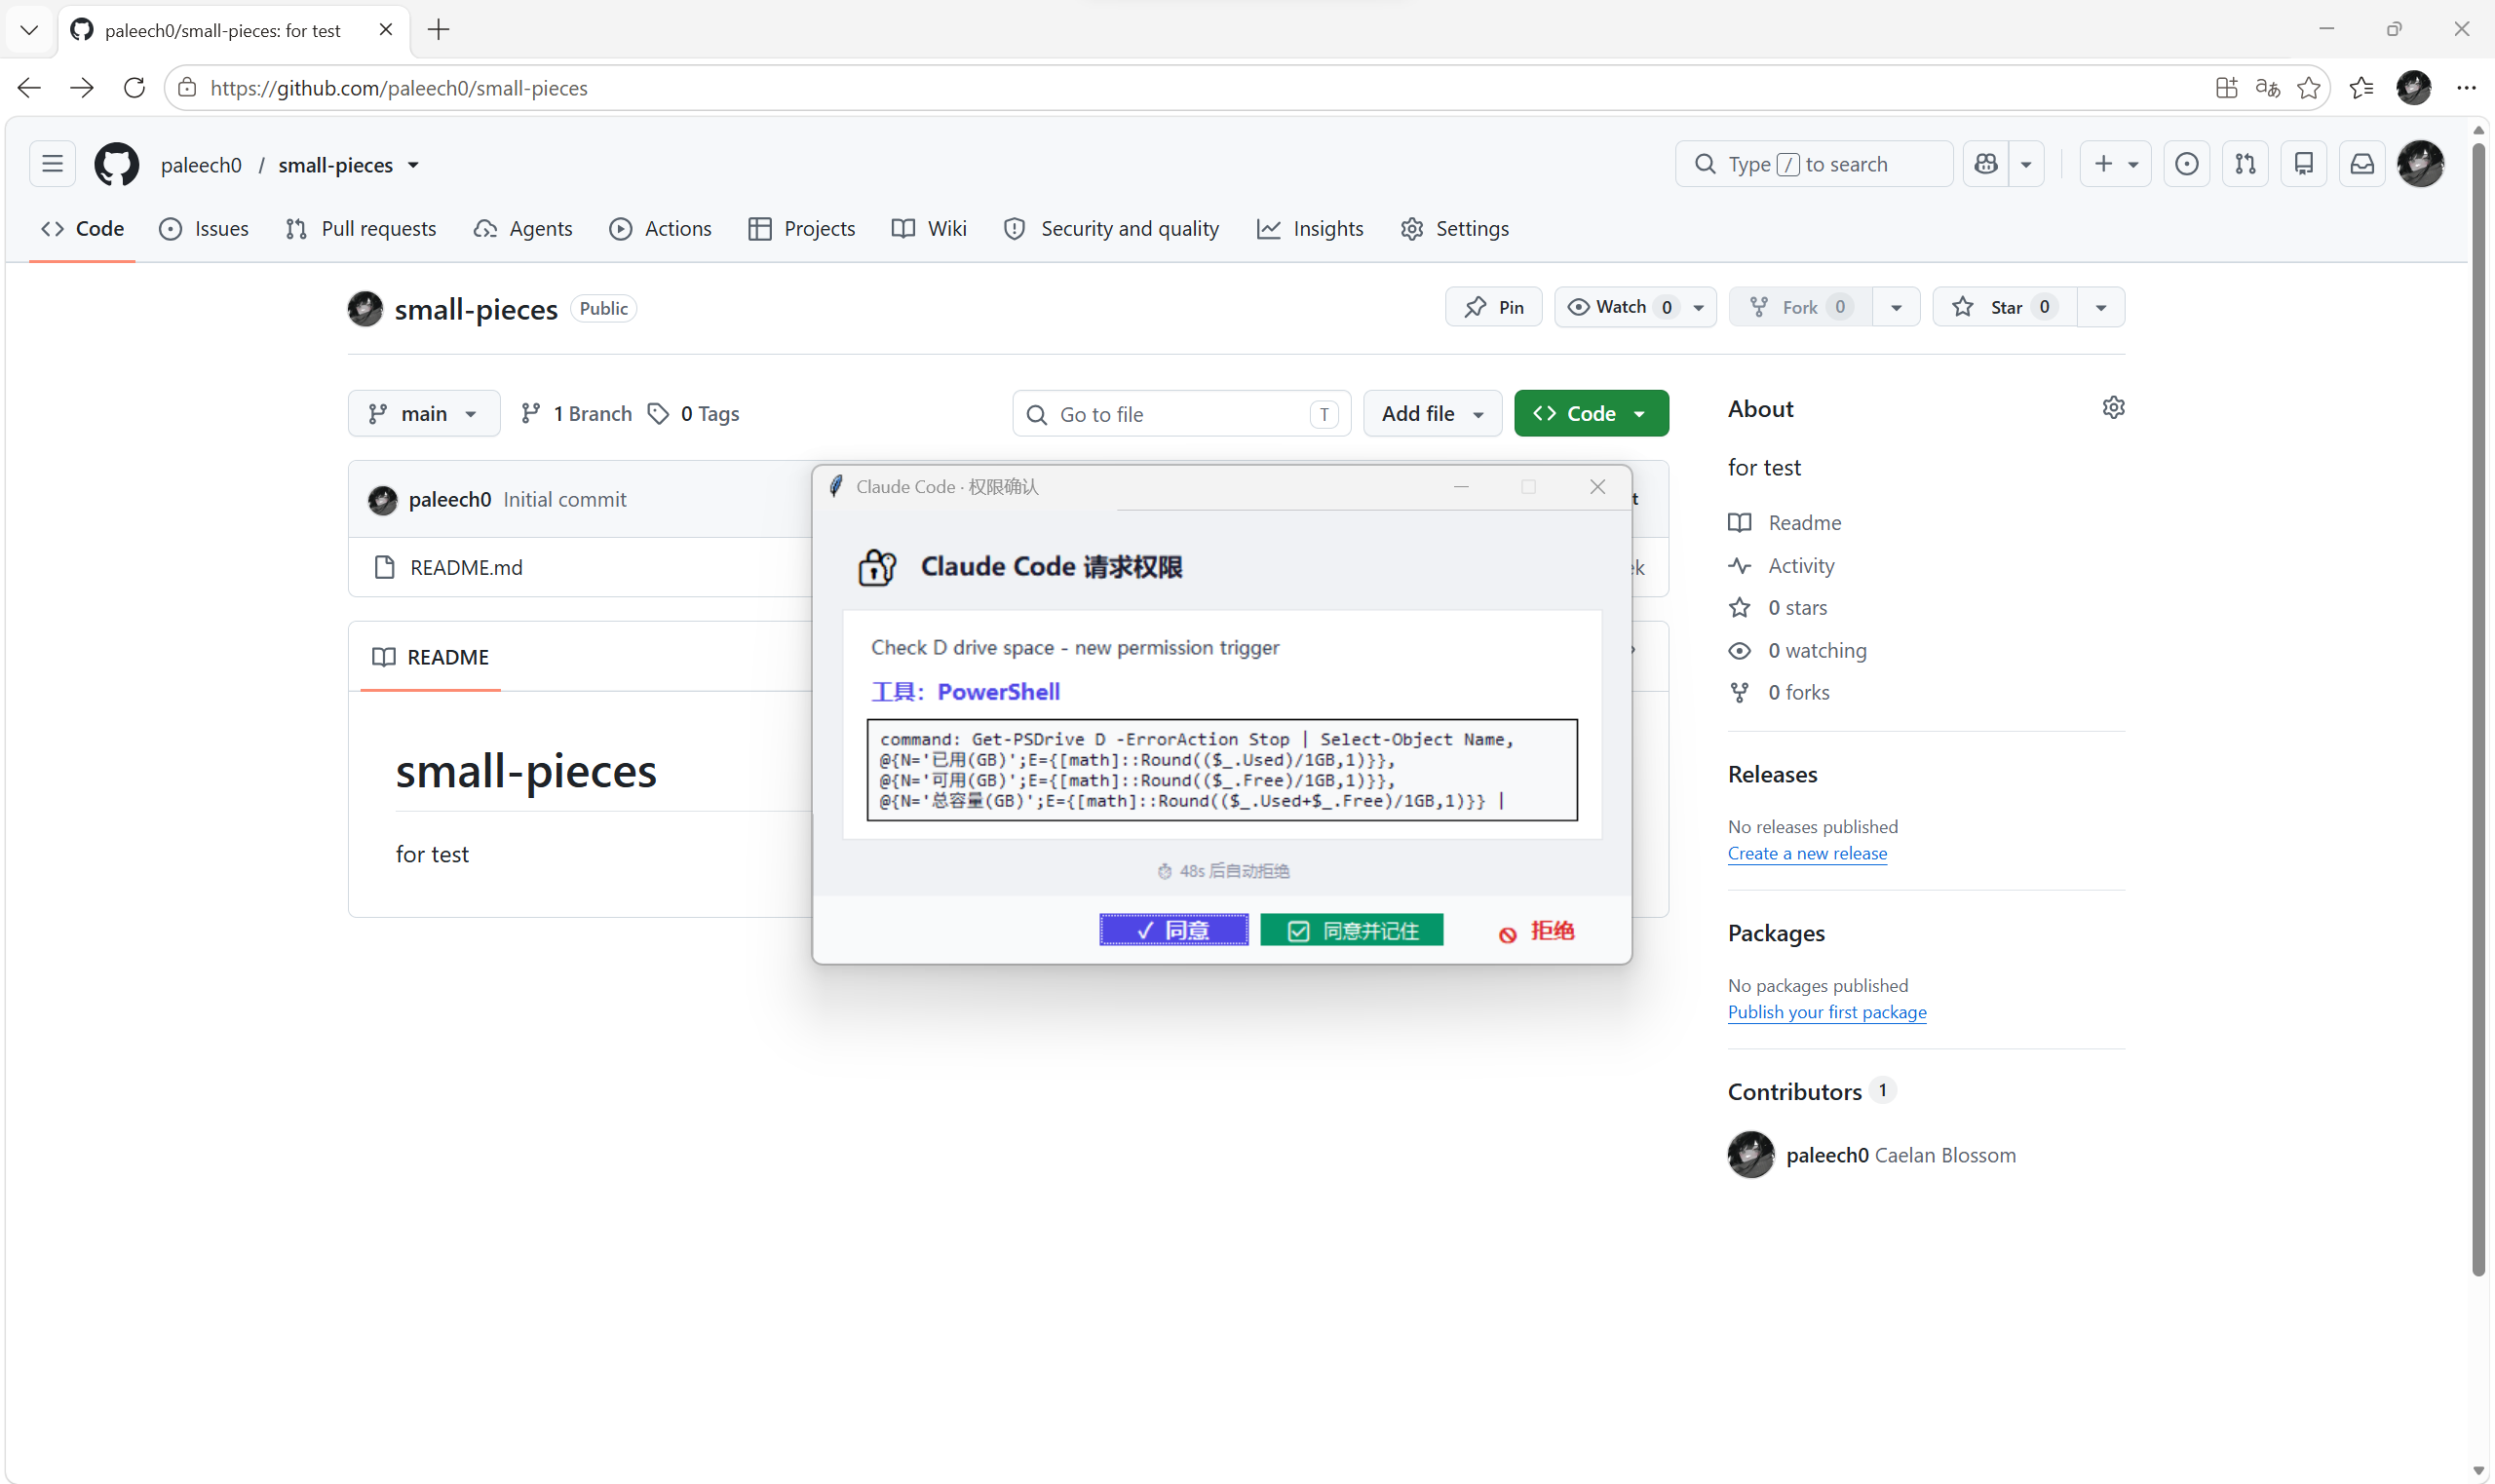
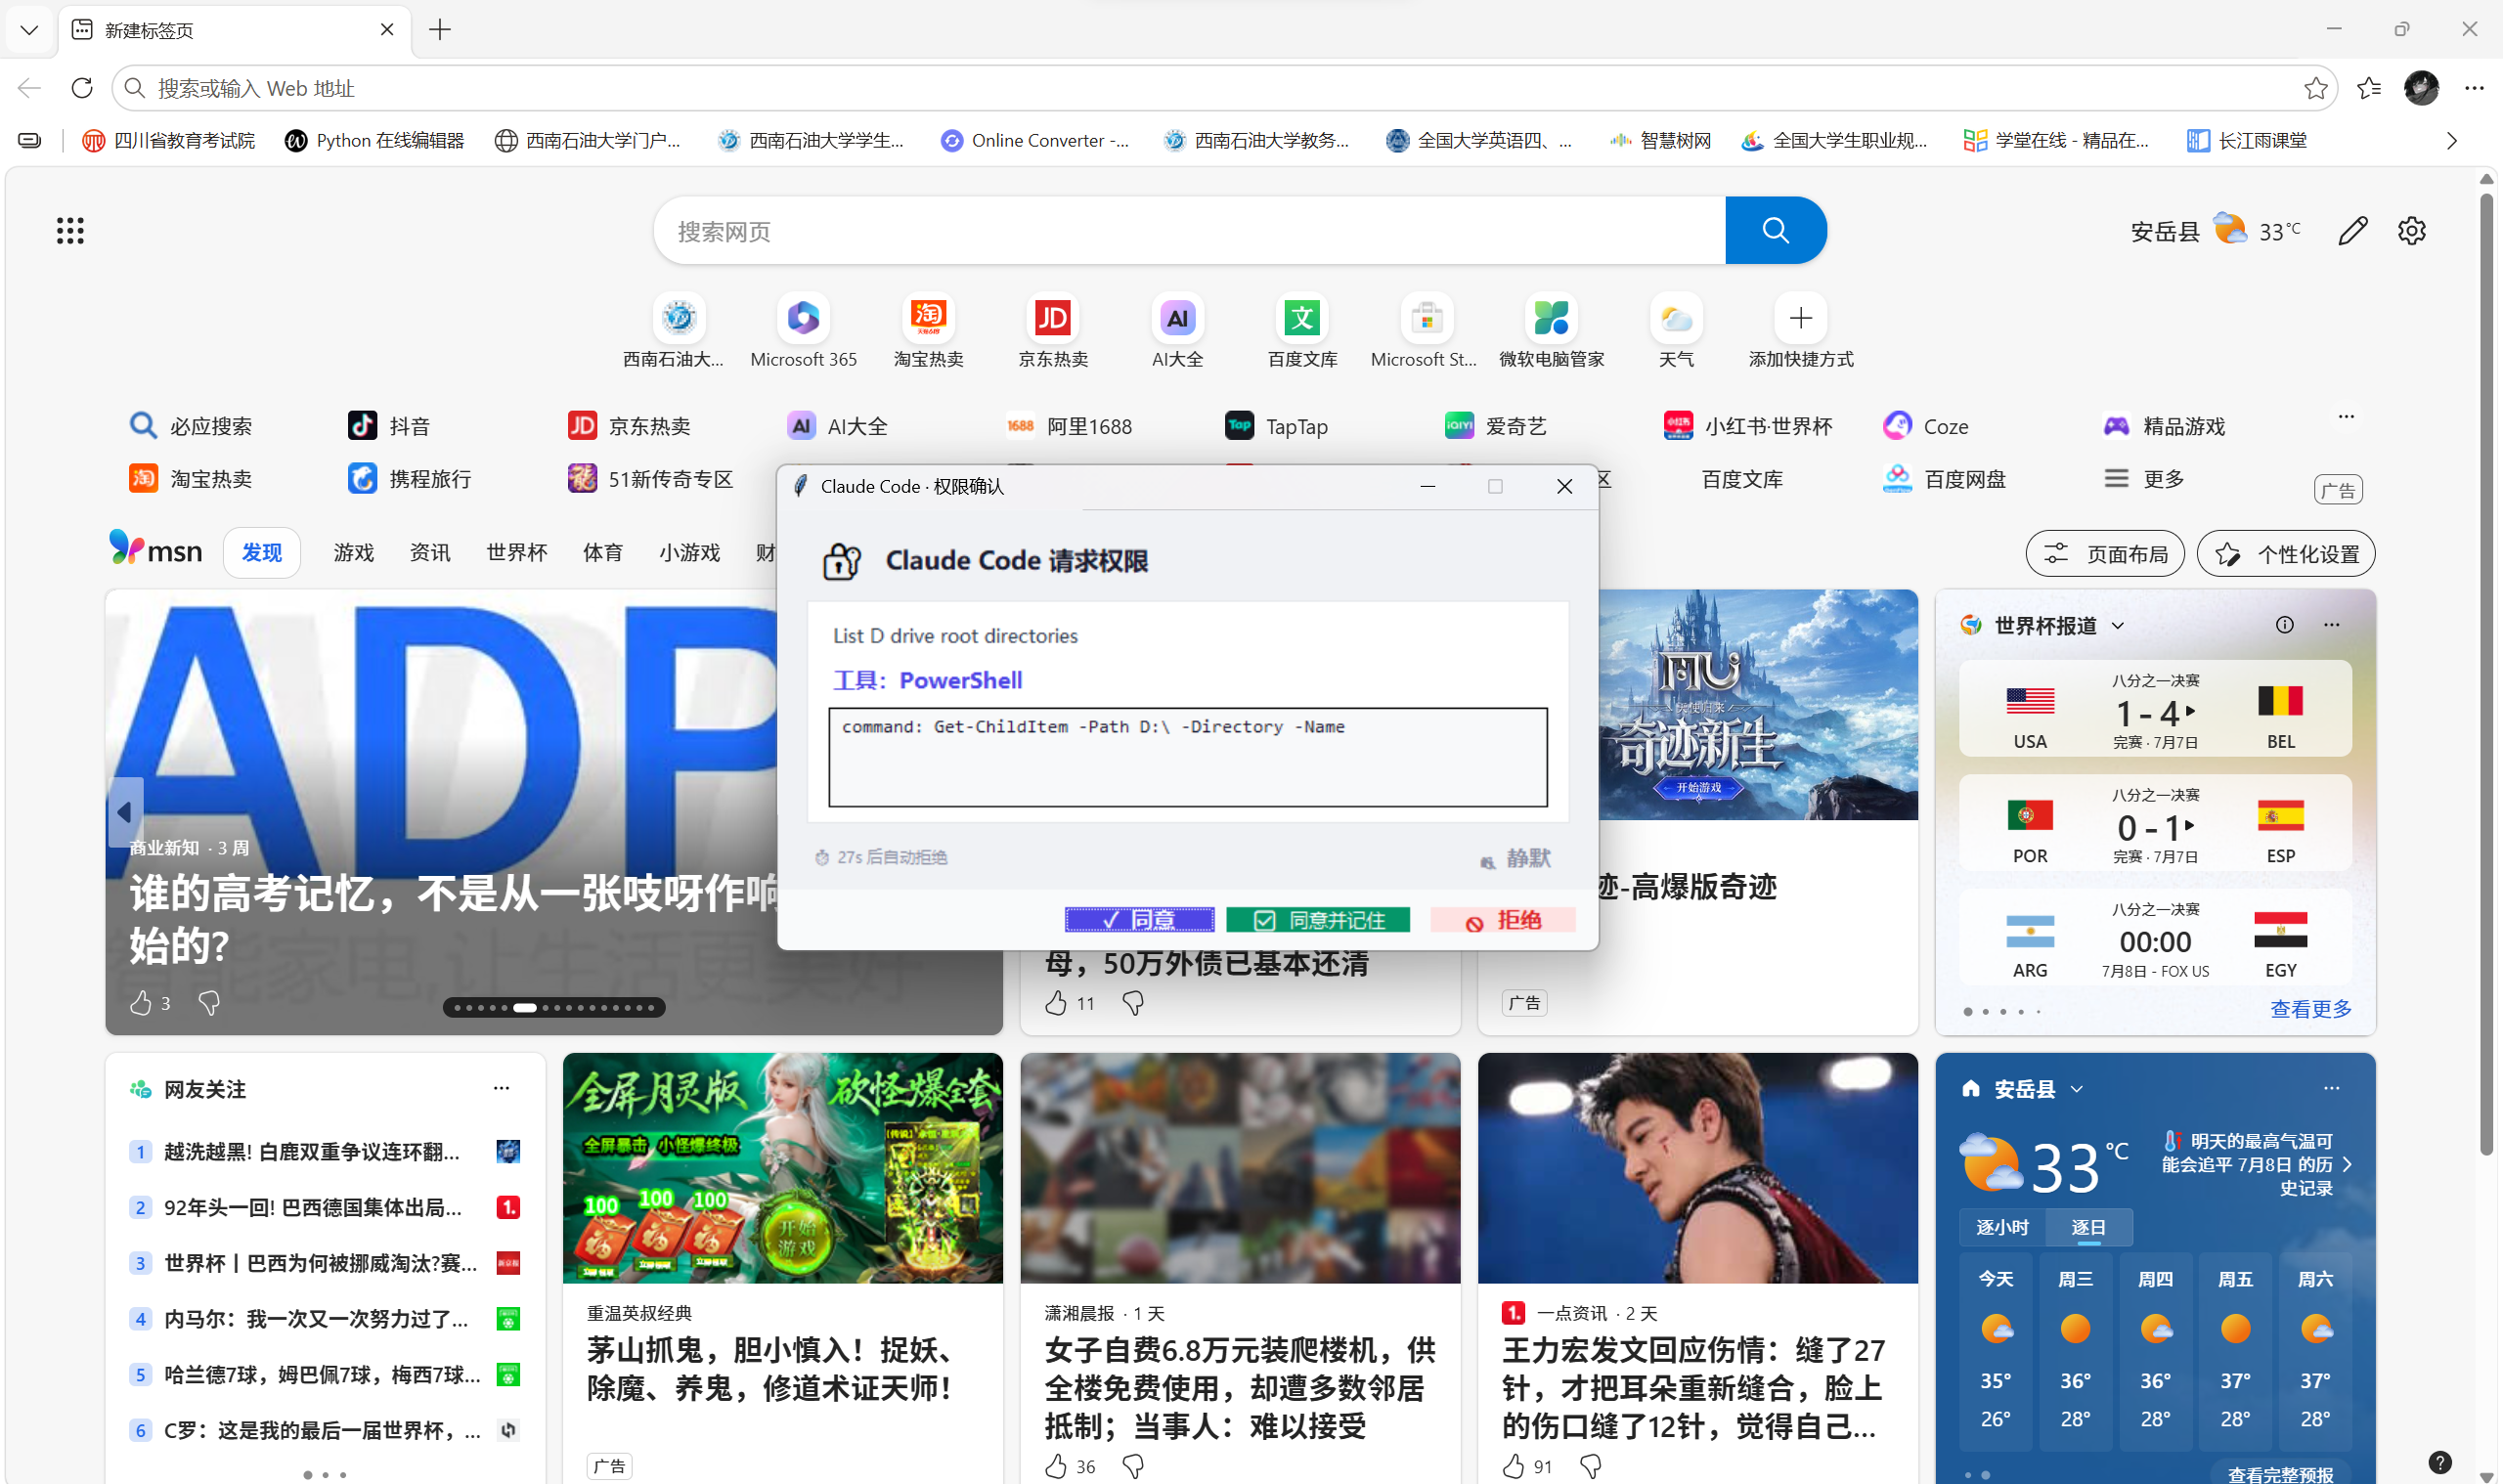
fix: 修复空闲通知PID匹配bug + 新增SessionStart hook清除屏蔽 + 更新封面

diff --git a/cc-notify.py b/cc-notify.py
@@ -76,35 +76,21 @@ COLORS = {
 PERMISSION_TIMEOUT = 60
 IDLE_AUTO_CLOSE = 6
 
-# 空闲通知屏蔽（同一 CC 会话内有效，重启 CC 后重置）
-# 原理：存储 CC 进程 PID，PID 不同 = 新会话 → 屏蔽失效
+# 空闲通知屏蔽（同一 CC 会话内有效，重启 CC 后由 SessionStart hook 清除）
+# 原理：文件存在 = 已屏蔽。SessionStart hook 在 CC 启动时清除，确保会话隔离。
 MUTE_FILE = os.path.join(SCRIPT_DIR, 'cc-notify_muted.json')
 
 
 def _is_idle_muted():
     """检查当前 CC 会话是否已屏蔽空闲通知。"""
-    if not os.path.exists(MUTE_FILE):
-        return False
-    try:
-        with open(MUTE_FILE, 'r', encoding='utf-8') as f:
-            data = json.loads(f.read())
-        if data.get('pid') == os.getppid():
-            return True
-        # PID 不匹配 → 旧会话残留 → 清除
-        os.remove(MUTE_FILE)
-    except Exception:
-        try:
-            os.remove(MUTE_FILE)
-        except Exception:
-            pass
-    return False
+    return os.path.exists(MUTE_FILE)
 
 
 def _mute_idle():
     """屏蔽当前 CC 会话的空闲通知。"""
     try:
         with open(MUTE_FILE, 'w', encoding='utf-8') as f:
-            json.dump({'pid': os.getppid()}, f)
+            json.dump({'muted': True, 'at': 'SessionStart clears this on restart'}, f)
     except Exception:
         pass
 